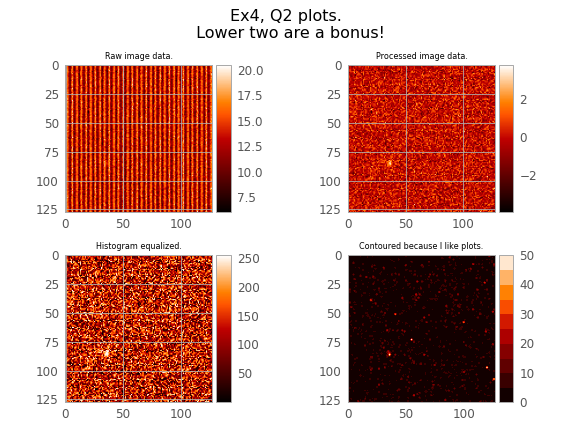
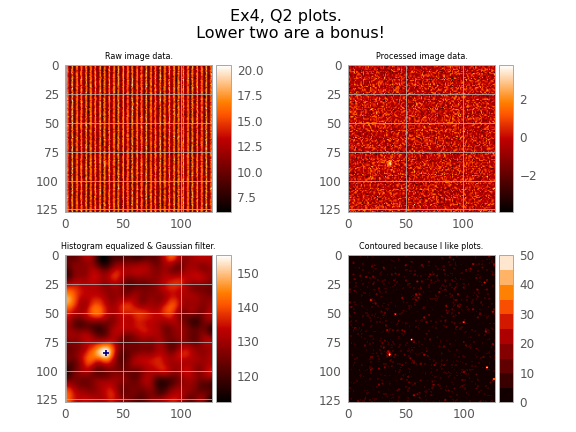
initial commit ex4 q3 small fix ex4 q2

diff --git a/ex4/welzel_ex4_q3.py b/ex4/welzel_ex4_q3.py
@@ -7,18 +7,21 @@ plt.style.use(astropy_mpl_style)
 from matplotlib import pyplot as plt
 from mpl_toolkits.axes_grid1 import make_axes_locatable
 from scipy.ndimage import gaussian_filter
+import os
 
-img_raw=sh.read_img("./ex4/imgs_ex4/image1_2021.fits")
-channels=np.array([np.arange(start,128,4) for start in np.arange(4)])
+img_raw=sh.read_img("./ex4/imgs_ex4/image2_2021.fits")
 
-means=np.array([np.mean(img_raw[:,channels[i]]) for i in np.arange(4)])
-offset_levels=means
-means=np.tile(means,int(128/4)) # TODO kinda shitty way to do it but its like 23:30 and I want to sleep
+unexposed_columns=img_raw[:,0:4]
+noise=np.resize(np.mean(unexposed_columns,axis=1),img_raw.shape).T
 
-img=img_raw-means
+
+# only care about exposed pixels
+img=(img_raw-noise)[:,5:]
+
+print(os.getcwd())
 
 fig, ((ax1, ax2), (ax3, ax4)) = plt.subplots(2, 2, constrained_layout=False)
-fig.suptitle('Ex4, Q2 plots. \n Lower two are a bonus!', fontsize=16)
+fig.suptitle('Ex4, Q3 plots. \n All processed images only show the exposed pixels.', fontsize=16)
 im1 = ax1.imshow(img_raw)
 divider1 = make_axes_locatable(ax1)
 cax1 = divider1.append_axes("right", size="10%", pad=0.05)
@@ -32,36 +35,22 @@ cbar2 = plt.colorbar(im2,cax2)
 ax2.set_title('Processed image data.', fontsize=8)
 
 # just to flex
-im3 =ax3.imshow(gaussian_filter(sh.histogram_equalization(img), sigma=5))
-ax3.scatter(x=35,y=85,c='navy',marker='+')
+im3 =ax3.imshow(gaussian_filter(sh.histogram_equalization(img), sigma=12))
+ax3.scatter(x=195,y=375,c='navy',marker='+')
 divider3 = make_axes_locatable(ax3)
 cax3 = divider3.append_axes("right", size="10%", pad=0.05)
 cbar3 = plt.colorbar(im3,cax3)
 ax3.set_title('Histogram equalized & Gaussian filter.', fontsize=8)
 
-im4 =ax4.contourf(np.exp(img), levels=10, cmap='gist_heat') # plotted is exp(data)
-ax4.set_aspect('equal')
-ax4.invert_yaxis()
+im4 =ax4.imshow(gaussian_filter(img, sigma=12))
 divider4 = make_axes_locatable(ax4)
 cax4 = divider4.append_axes("right", size="10%", pad=0.05)
 cbar4 = plt.colorbar(im4,cax4)
-ax4.set_title('Contoured because I like plots.', fontsize=8)
+ax4.set_title('Gaussian filter.', fontsize=8)
 
 plt.tight_layout()
 plt.subplots_adjust(top=0.85)
-plt.savefig("./ex4/welzel_ex4_q2_plot.png")
+plt.savefig("./ex4/welzel_ex4_q3_plot.png")
 plt.show()
 
 # Answers:
-print("Q1 a)")
-channel_names=[f"Offset Channel {i}: " for i in range(1,5)]
-ans_a=dict(zip(channel_names, offset_levels))
-pprint.pp(ans_a, width=-1)
-
-print("\nQ1 b)")
-ans_b=dict(zip(['x', 'y'], [35,85]))
-pprint.pp(ans_b, width=-1)
-print("See Hist. Equ. & Gauss. Filt. plot. \nThe Hist. Equ. enhances global contrast &"
-      " the guassian filter filters out what might be hot pixels/ less luminous objects.")
-
-

diff --git a/welzel_shared.py b/welzel_shared.py
@@ -1,16 +1,7 @@
 import numpy as np
-import matplotlib.pyplot as plt
-import plotly.graph_objects as go
-import plotly.io as pio
-pio.renderers.default = 'browser'
-from astropy.visualization import astropy_mpl_style
-plt.style.use(astropy_mpl_style)
 from astropy.io import fits
 from astropy.utils.data import get_pkg_data_filename
-from matplotlib import pyplot as plt
-import matplotlib.image as mpimg
-import io
-from scipy import stats
+import os
 
 def read_img(loc):
     '''
@@ -46,3 +37,6 @@ def histogram_equalization(img, n_bins=256):
     img_hist_equ = np.interp(img.flatten(), bins[:-1], cdf)
 
     return img_hist_equ.reshape(img.shape)
+
+# set dir path for anything using welzel_shared
+os.chdir("/home/lwelzel/Documents/Git/dtla/")
